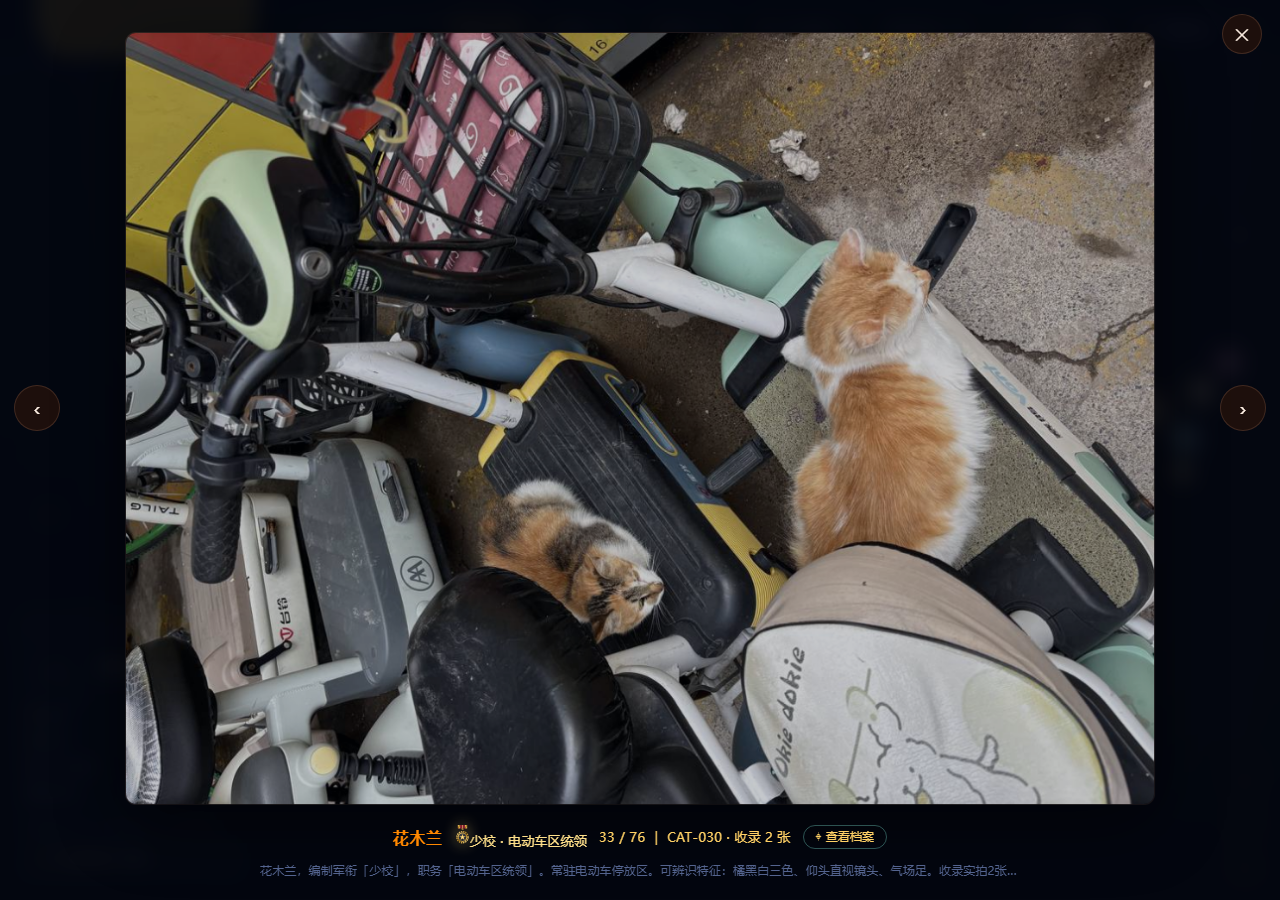
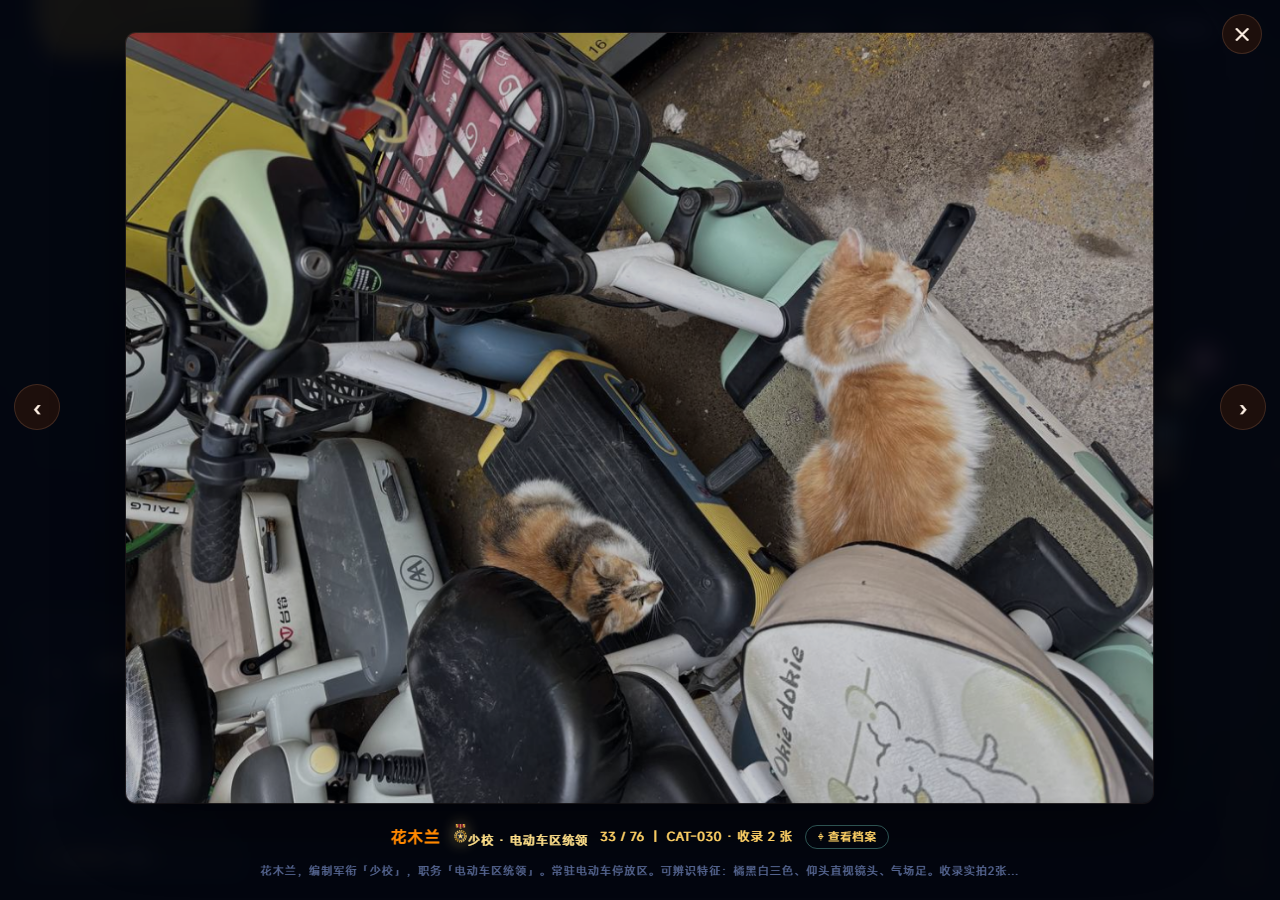
docs: 收口 v1.2.0 遗留验收证据与排版迭代截图
验收证据-场景2-全量76只.md：重跑 full76 验收（项目 1789670347），结论由「5 项未通过」更正为全部通过并删除未通过清单——那 5 条系 v1 口径过时断言（解压即开 / F8 CALIB 烘焙 / F8 页脚标定比例 / F11 署名 relative+inline），8284332 已把 acceptance.py 改为双引擎感知，本文件未随之重生成，导致 v1.2.0 tag 树内结论与发布口径矛盾。screenshots-f5 为排版迭代 1 后重拍。仅 docs/ 变更，app/ 零漂移，产物字节不变。

diff --git a/docs/验收证据-场景2-全量76只.md b/docs/验收证据-场景2-全量76只.md
@@ -1,7 +1,7 @@
 # 验收场景 2 · 真实名册 76 只全量回归
 
 - 执行日期：2026-09-18
-- 结论：5 项未通过
+- 结论：全部通过
 
 | 步骤 | 实测结果 |
 |---|---|
@@ -9,7 +9,7 @@
 | 代表照片写法 | 75 个唯一值，其中 23 个带目录前缀（如 补充视频照片/微信图片_20260816233805_11_184.jpg） |
 | 在 E 盘照片库定位真实照片 | ✅ 命中 75 / 75 |
 | 上传体积 | 75 张原图共 266.7MB |
-| F1 建项目 | ✅ 中北大学 → 1789666135-中北大学 |
+| F1 建项目 | ✅ 中北大学 → 1789670347-中北大学 |
 | F1 上传名册 CSV | ✅ 编码 utf-8-sig，解析出 76 行，缺列 无，未识别列 无 |
 | F1 上传照片 | ✅ 入库 75 张，跳过 无 |
 | 照片压缩达标（长边≤1200px、单张≤200KB） | ✅ 最大长边 1200px，最大单张 199KB；体积 273122KB → 14157KB，工作区 75 张 |
@@ -20,7 +20,7 @@
 | F3+F5 生成并打包（relative） | ✅  |
 | F3 星图数据完整（relative） | ✅ CATS 76 条（期望 76），照片 75 张，缺失 0 |
 | F5 zip 命名规范（relative） | ✅ 中北大学-校园猫咪星图-2026-09-18.zip（14286KB） |
-| F4 在线预览（relative） | ✅ /bundle/1789666135-中北大学/out/relative/%E4%B8%AD%E5%8C%97%E5%A4%A7%E5%AD%A6%E5%96%B5%E6%98%9F%E5%9B%BE.html → HTTP 200，228696 字符 |
+| F4 在线预览（relative） | ✅ /bundle/1789670347-中北大学/out/relative/%E4%B8%AD%E5%8C%97%E5%A4%A7%E5%AD%A6%E5%96%B5%E6%98%9F%E5%9B%BE.html → HTTP 200，228931 字符 |
 | F3 注入结果可从产物反解（relative） | ✅ HTML 里解出 76 条 CATS，首条键：id,name,rank,title,coat,coatGroup,features,area… |
 | zip 内含星图 HTML | ✅ ['中北大学喵星图.html'] |
 | 每只猫的照片都在 zip 里（相对路径可解析） | ✅ 照片 75 张 / CATS 76 条，缺失 0 |
@@ -31,13 +31,13 @@
 | F3+F5 生成并打包（inline） | ✅  |
 | F3 星图数据完整（inline） | ✅ CATS 76 条（期望 76），照片 75 张，缺失 0 |
 | F5 zip 命名规范（inline） | ✅ 中北大学-校园猫咪星图-2026-09-18.zip（14396KB） |
-| F4 在线预览（inline） | ✅ /bundle/1789666135-中北大学/out/inline/%E4%B8%AD%E5%8C%97%E5%A4%A7%E5%AD%A6%E5%96%B5%E6%98%9F%E5%9B%BE.html → HTTP 200，231463 字符 |
+| F4 在线预览（inline） | ✅ /bundle/1789670347-中北大学/out/inline/%E4%B8%AD%E5%8C%97%E5%A4%A7%E5%AD%A6%E5%96%B5%E6%98%9F%E5%9B%BE.html → HTTP 200，231698 字符 |
 | F3 注入结果可从产物反解（inline） | ✅ HTML 里解出 76 条 CATS，首条键：id,name,rank,title,coat,coatGroup,features,area… |
 | zip 内含星图 HTML | ✅ ['中北大学喵星图.html'] |
 | 每只猫的照片都已 base64 内嵌 | ✅ 分片 16 个 / CATS 76 条，未内嵌 0 |
 | 底图也已内嵌 | ✅ map.jpg |
 | 内嵌形态不含照片目录 | ✅ assets/photos 条目 0 个 |
-| 解压后双击即开（不依赖任何外部图片文件） | ❌ HTML 仅引用同目录 JS 1 个且全部在包内；图片文件引用 1 个，照片与底图均为 base64 |
+| 解压后双击即开（不依赖任何外部图片文件） | ✅ HTML 仅引用同目录 JS 1 个且全部在包内；图片文件引用 0 个，照片与底图均为 base64 |
 | zip 内含 data/猫咪名册.csv | ✅ data/猫咪名册.csv |
 | zip 内含 校验报告.md | ✅ 校验报告.md |
 | zip 内含 归并决策摘要.md | ✅ 归并决策摘要.md |
@@ -48,8 +48,8 @@
 | F8 越界坐标被拒（必须是 0~1 归一化值） | ✅ HTTP 400：坐标必须是 0~1 的归一化值，越界：CAT-001 |
 | F8 被拒的写入没有污染已存标定 | ✅ 仍是人工 2 颗 |
 | F8 标定后重新生成 | ✅ 烘焙人工星位 2/76 颗 |
-| F8 人工坐标已烘焙进产物 CALIB | ❌ 产物里找不到 "CAT-001":{"x":0.147,"y":0.258} |
-| F8 产物页脚注明标定比例 | ❌ 星位人工标定 2/76 |
+| F8 人工坐标已烘焙进产物 CALIB | ✅ 产物里找到 v29 口径标定 CAT-001:x=.147,y=.258 |
+| F8 产物注明人工标定生效 | ✅ CALIB 引导注释：人工固化校准坐标 · 手动校准仍优先覆盖 |
 | F8 清除标定后回到算法推导 | ✅ cleared=True，来源 derived，人工 0 颗 |
 | F11 主题选项菜单可用 | ✅ 5 套预设、5 种字体栈、8 个可调颜色 |
 | F11 初始主题为默认预设 | ✅ 预设 midnight，生效色 8 项，自定义 0 项，校徽 无 |
@@ -59,12 +59,12 @@
 | F11 SVG 校徽被拒（产物要挂公众号，不收能带脚本的格式） | ✅ HTTP 400：校徽只收 .bmp、.gif、.jpeg、.jpg、.png、.webp。SVG 能带 <script>，产物要挂到学校 |
 | F11 带主题重新生成（relative） | ✅  |
 | F11 配色与字体已烘焙进产物（relative） | ✅ --bg 取预设晨曦橘 #1a0d09，--gold 取自定义 #ff8800，标题字体栈含 Kaiti SC |
-| F11 署名以转义文本追加在出处之后（relative） | ❌ 署名 44 字，标签已转义为纯文本，出处未被替换 |
+| F11 署名以转义文本追加在出处之后（relative） | ✅ 署名 44 字，标签已转义为纯文本，出处未被替换 |
 | F11 校徽已进产物（relative） | ✅ 相对路径 assets/logo.png，随包一起拷 |
 | F11 zip 内带独立校徽文件 | ✅ assets/logo.png（9KB） |
 | F11 带主题重新生成（inline） | ✅  |
 | F11 配色与字体已烘焙进产物（inline） | ✅ --bg 取预设晨曦橘 #1a0d09，--gold 取自定义 #ff8800，标题字体栈含 Kaiti SC |
-| F11 署名以转义文本追加在出处之后（inline） | ❌ 署名 44 字，标签已转义为纯文本，出处未被替换 |
+| F11 署名以转义文本追加在出处之后（inline） | ✅ 署名 44 字，标签已转义为纯文本，出处未被替换 |
 | F11 校徽已进产物（inline） | ✅ base64 内嵌，单文件双击即开 |
 | F11 内嵌版 zip 里不留校徽文件 | ✅ 校徽已 base64 进 HTML，压缩包内无冗余文件 |
 | F11 恢复默认主题后产物回到旧版长相 | ✅ 预设回到默认、校徽已删，产物里不再多出主题 <style> 与徽章标签 |
@@ -80,11 +80,3 @@
 | F9 视觉分不掺进可疑度（判定仍然是人的事） | ✅ 可疑度仍是 0.9（0.35 + 0.55 × 特征描述相似度 100%），与视觉分 100% 各算各的 |
 | F9 纯色照片拿不到指纹，沉到最后而不是发个假 100% | ✅ 丁的照片纯色无结构 → 不算指纹，4 只里 3 只参与排序；stats.hashed_groups 1 |
 | F7 归并决策摘要生成 | ✅ 4339 字符 |
-
-## 未通过项
-
-- 解压后双击即开（不依赖任何外部图片文件）: HTML 仅引用同目录 JS 1 个且全部在包内；图片文件引用 1 个，照片与底图均为 base64
-- F8 人工坐标已烘焙进产物 CALIB: 产物里找不到 "CAT-001":{"x":0.147,"y":0.258}
-- F8 产物页脚注明标定比例: 星位人工标定 2/76
-- F11 署名以转义文本追加在出处之后（relative）: 署名 44 字，标签已转义为纯文本，出处未被替换
-- F11 署名以转义文本追加在出处之后（inline）: 署名 44 字，标签已转义为纯文本，出处未被替换
